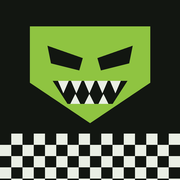
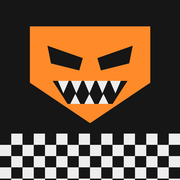
Dark grey and orange palette
Single dark graphite theme with one orange accent (light theme dropped);
ranged/melee told apart by marker shape instead of colour; keyword links
in body colour with an orange underline; icon redrawn in orange.

Claude-Session: https://claude.ai/code/session_0119rjTvtppYUG8zS6as5ssj

Changed region(s): [[0.1667, 0.1389, 0.8611, 0.6944]]

diff --git a/index.html b/index.html
@@ -8,7 +8,7 @@
 <body>
 <title>Waaagh Codex</title>
 <meta name="claude:viewport-fit-sides" content="cover">
-<meta name="theme-color" content="#121611">
+<meta name="theme-color" content="#161616">
 <meta name="apple-mobile-web-app-capable" content="yes">
 <meta name="mobile-web-app-capable" content="yes">
 <meta name="apple-mobile-web-app-status-bar-style" content="black-translucent">
@@ -24,40 +24,23 @@
    Sticky nav bar with a back button over a checkered Goff band; every screen is one
    scrolling column; datasheet sections fold open and closed. */
 :root{
+  /* one deliberate look: dark graphite with a single orange accent */
   color-scheme: dark;
-  --bg:#121611;        /* gunmetal with a green cast */
-  --surface:#1a2019;
-  --surface2:#232b22;
-  --line:#303b2e;
-  --fg:#e9eee4;
-  --muted:#9ba796;
-  --accent:#8fc441;    /* waaagh green */
-  --accent-ink:#0f1a06;
-  --dakka:#f0bf3a;     /* bad moons yellow: CP, ranged */
-  --dakka-ink:#231a00;
-  --choppa:#ea6a50;    /* evil sunz red: melee */
-  --check-a:#e9eee4; --check-b:#121611;
-  --shadow:0 10px 30px rgba(0,0,0,.45);
+  --bg:#161616;
+  --surface:#1f1f1f;
+  --surface2:#2a2a2a;
+  --line:#363636;
+  --fg:#ededed;
+  --muted:#9c9c9c;
+  --accent:#ff8a2a;      /* orange: interactive things, CP, highlights */
+  --accent-ink:#1c0d00;  /* text on orange */
+  --accent-soft:color-mix(in srgb, var(--accent) 14%, transparent);
+  --check-a:#3c3c3c; --check-b:#161616;
+  --shadow:0 10px 30px rgba(0,0,0,.5);
   --f-display:'Black Ops One', 'Barlow Condensed', Impact, sans-serif;
   --f-head:'Barlow Condensed', 'Arial Narrow', system-ui, sans-serif;
   --f-body:'Barlow', system-ui, -apple-system, 'Segoe UI', sans-serif;
   --hdr:64px;
-}
-@media (prefers-color-scheme: light){
-  :root:not([data-theme="dark"]){
-    color-scheme: light;
-    --bg:#edf0e8; --surface:#ffffff; --surface2:#f1f4ed; --line:#d3d9cc;
-    --fg:#151a13; --muted:#5a6555; --accent:#4c7c12; --accent-ink:#ffffff;
-    --dakka:#a77300; --dakka-ink:#ffffff; --choppa:#b8381f;
-    --check-a:#151a13; --check-b:#edf0e8; --shadow:0 10px 30px rgba(20,30,10,.18);
-  }
-}
-:root[data-theme="light"]{
-  color-scheme: light;
-  --bg:#edf0e8; --surface:#ffffff; --surface2:#f1f4ed; --line:#d3d9cc;
-  --fg:#151a13; --muted:#5a6555; --accent:#4c7c12; --accent-ink:#ffffff;
-  --dakka:#a77300; --dakka-ink:#ffffff; --choppa:#b8381f;
-  --check-a:#151a13; --check-b:#edf0e8; --shadow:0 10px 30px rgba(20,30,10,.18);
 }
 
 *{box-sizing:border-box}
@@ -106,7 +89,7 @@ h1,h2,h3{margin:0; text-wrap:balance}
 .pill{display:inline-flex; align-items:center; gap:5px; font:700 12px/1 var(--f-head); letter-spacing:.07em; text-transform:uppercase;
   border-radius:999px; padding:5px 9px; border:1px solid var(--line); color:var(--muted); white-space:nowrap}
 .pill.acc{background:var(--accent); border-color:var(--accent); color:var(--accent-ink)}
-.pill.warn{border-color:var(--dakka); color:var(--dakka)}
+.pill.warn{border-color:var(--accent); color:var(--accent)}
 .pills{display:flex; flex-wrap:wrap; gap:6px}
 .muted{color:var(--muted)}
 .rt p{margin:0 0 6px} .rt p:last-child{margin-bottom:0}
@@ -140,7 +123,7 @@ summary::-webkit-details-marker{display:none}
 .mrow b{font:700 18px/1.1 var(--f-head); letter-spacing:.03em}
 .mrow .c{font:600 14px var(--f-head); color:var(--muted); font-variant-numeric:tabular-nums}
 .mrow .go{width:18px; height:18px; color:var(--muted); transform:rotate(-90deg)}
-.ic.units{color:var(--accent)} .ic.strats{color:var(--dakka)} .ic.ranged{color:var(--dakka)} .ic.melee{color:var(--choppa)} .ic.abil{color:var(--accent)} .ic.rules{color:var(--muted)}
+.ic.units{color:var(--accent)} .ic.strats{color:var(--accent)} .ic.ranged{color:var(--accent)} .ic.melee{color:var(--accent)} .ic.abil{color:var(--accent)} .ic.rules{color:var(--muted)}
 
 /* ---------- slices: weapons / abilities by unit ---------- */
 /* each unit opens with a one-line band (its name) over the column labels; both stay pinned while you scroll its rows */
@@ -152,7 +135,7 @@ summary::-webkit-details-marker{display:none}
 .wt.lab > span.h{top:calc(env(safe-area-inset-top, 0px) + var(--hdr) + 34px); padding:6px 0 4px}
 .uhn{display:flex; flex:1; align-items:baseline; gap:8px; min-width:0; max-width:100%; font:700 16.5px/1.1 var(--f-head); letter-spacing:.02em; color:var(--fg); cursor:pointer}
 .uhn .nm{flex:none}
-.uhn small{min-width:0; font:600 12px/1.2 var(--f-body); color:var(--dakka); white-space:nowrap; overflow:hidden; text-overflow:ellipsis}
+.uhn small{min-width:0; font:600 12px/1.2 var(--f-body); color:var(--accent); white-space:nowrap; overflow:hidden; text-overflow:ellipsis}
 .uhn small.m{color:var(--muted)}
 .uhn::after{content:"\203A"; margin-left:auto; padding-left:6px; color:var(--accent); font-size:20px; line-height:1}
 .slice .al{margin-top:6px}
@@ -165,7 +148,7 @@ summary::-webkit-details-marker{display:none}
 .urow .nm{font:700 18px/1.15 var(--f-head); letter-spacing:.02em}
 .urow .pts{font:700 16px/1 var(--f-head); text-align:right; color:var(--muted)}
 .urow .meta{grid-column:1 / -1; font-size:13px; color:var(--muted); line-height:1.35}
-.urow .meta .tg{color:var(--dakka); font-weight:600}
+.urow .meta .tg{color:var(--accent); font-weight:600}
 .urow .meta .tg.acc{color:var(--accent)}
 .sline{grid-column:1 / -1; display:flex; flex-wrap:wrap; gap:0 12px; margin-top:3px; font:700 15px/1.3 var(--f-head)}
 .sline i{font-style:normal; font-weight:600; font-size:11px; letter-spacing:.1em; color:var(--muted); margin-right:3px}
@@ -179,7 +162,7 @@ summary::-webkit-details-marker{display:none}
 .fold > summary h2{flex:1; font:700 17px/1 var(--f-head); letter-spacing:.07em; text-transform:uppercase}
 .fold > summary .ct{font:600 12.5px var(--f-head); color:var(--muted); letter-spacing:.06em}
 .fold > summary .dot{width:9px; height:9px; border-radius:2px; transform:rotate(45deg); flex:none}
-.dot.stats{background:var(--fg)} .dot.ranged{background:var(--dakka)} .dot.melee{background:var(--choppa)} .dot.abil{background:var(--accent)} .dot.rules{border:2px solid var(--accent)} .dot.kw{border:2px solid var(--muted)}
+.dot.stats{background:var(--fg)} .dot.ranged{background:var(--accent)} .dot.melee{border:2px solid var(--accent)} .dot.abil{background:var(--accent)} .dot.rules{border:2px solid var(--accent)} .dot.kw{border:2px solid var(--muted)}
 .fold > .body{padding-bottom:12px}
 /* stat table: one row per model profile */
 .st{display:grid; align-items:stretch; background:var(--surface); border:1px solid var(--line); border-radius:10px; overflow:hidden}
@@ -202,22 +185,20 @@ summary::-webkit-details-marker{display:none}
 .wt > span.sub{border-top:0}
 .wt > span.n.sub{padding-left:2px}
 .wt > span.n .x{color:var(--muted); font-weight:600; font-size:13px; margin-left:4px; white-space:nowrap}
-.wt > span.n .enh{color:var(--dakka); font-size:11px; letter-spacing:.08em; margin-left:4px}
+.wt > span.n .enh{color:var(--accent); font-size:11px; letter-spacing:.08em; margin-left:4px}
 .wt > span.who{grid-column:1 / -1; text-align:left; font:700 11.5px/1 var(--f-head); letter-spacing:.12em; text-transform:uppercase; color:var(--muted); padding:9px 0 5px}
 .wt > span.mod{grid-column:1 / -1; text-align:left; border-top:0; margin:3px 0 2px; padding:5px 8px; border-radius:7px; font:500 13px/1.35 var(--f-body);
   background:color-mix(in srgb, var(--accent) 13%, transparent); color:var(--fg)}
 .wt > span.mod b{font-weight:700}
 .wt > span.mod .from, .wt > span.n.var small{color:var(--muted); font:500 11.5px var(--f-body); white-space:nowrap}
 .wt > span.mod .from::before{content:"\00b7  "}
-.wt > span.var{border-top:1px dashed var(--line); padding:5px 0 3px; background:color-mix(in srgb, var(--dakka) 7%, transparent)}
-.wt > span.n.var{font:600 13px/1.25 var(--f-body); color:var(--dakka); padding-left:8px}
+.wt > span.var{border-top:1px dashed var(--line); padding:5px 0 3px; background:color-mix(in srgb, var(--accent) 7%, transparent)}
+.wt > span.n.var{font:600 13px/1.25 var(--f-body); color:var(--accent); padding-left:8px}
 .wt > span.varc{grid-column:1 / -1; text-align:left; border-top:0; padding:0 8px 6px; font:500 12.5px/1.3 var(--f-body); color:var(--muted);
-  background:color-mix(in srgb, var(--dakka) 7%, transparent)}
-.wt > span.var i.hi{font-style:normal; display:inline-block; min-width:26px; padding:2px 4px; border-radius:5px; background:var(--dakka); color:var(--dakka-ink)}
+  background:color-mix(in srgb, var(--accent) 7%, transparent)}
+.wt > span.var i.hi{font-style:normal; display:inline-block; min-width:26px; padding:2px 4px; border-radius:5px; background:var(--accent); color:var(--accent-ink)}
 .wt > span.kwl{grid-column:1 / -1; text-align:left; border-top:0; padding:0 0 6px; margin-top:-2px; line-height:1.3}
-.kwl [data-rule]{cursor:pointer; white-space:nowrap; font:700 11px/1.35 var(--f-head); letter-spacing:.05em; text-transform:uppercase; color:var(--muted); padding:0; text-decoration:underline dotted; text-decoration-color:var(--muted); text-underline-offset:2px}
-.wt.ranged .kwl [data-rule]{color:color-mix(in srgb, var(--dakka) 80%, var(--fg))}
-.wt.melee .kwl [data-rule]{color:color-mix(in srgb, var(--choppa) 85%, var(--fg))}
+.kwl [data-rule]{cursor:pointer; white-space:nowrap; font:700 11px/1.35 var(--f-head); letter-spacing:.05em; text-transform:uppercase; color:var(--fg); padding:0; text-decoration:underline dotted; text-decoration-color:var(--accent); text-underline-offset:2px}
 .kwl .sep{color:var(--muted); font-size:11px}
 /* abilities: a divided list, no boxes */
 .al > div{padding:8px 0; border-top:1px solid var(--line)}
@@ -225,7 +206,7 @@ summary::-webkit-details-marker{display:none}
 .al .ah{display:flex; flex-wrap:wrap; align-items:baseline; gap:2px 8px; margin-bottom:2px}
 .al .ah b{font:700 16px/1.2 var(--f-head); letter-spacing:.02em}
 .al .ah .who, .al .ah .tg{font-size:12.5px; color:var(--muted)}
-.al .ah .tg.enh{color:var(--dakka)}
+.al .ah .tg.enh{color:var(--accent)}
 .al .rt{font-size:14.5px; line-height:1.4}
 .chips{display:flex; flex-wrap:wrap; gap:5px}
 .kw{display:inline-flex; align-items:center; gap:5px; font:700 12.5px/1 var(--f-head); letter-spacing:.06em; text-transform:uppercase; padding:8px 9px; border-radius:8px;
@@ -249,7 +230,7 @@ summary::-webkit-details-marker{display:none}
 .phasebar button[aria-pressed="true"]{border-color:var(--fg); color:var(--fg); background:var(--surface2)}
 .strat{background:var(--surface); border:1px solid var(--line); border-radius:12px}
 .strat > summary{display:grid; grid-template-columns:auto minmax(0,1fr) auto; gap:10px; align-items:center; padding:8px 10px}
-.cpbox{width:38px; height:38px; border-radius:9px; background:var(--dakka); color:var(--dakka-ink); display:grid; place-content:center; text-align:center;
+.cpbox{width:38px; height:38px; border-radius:9px; background:var(--accent); color:var(--accent-ink); display:grid; place-content:center; text-align:center;
   font:700 19px/1 var(--f-head)}
 .cpbox small{display:block; font-size:8.5px; letter-spacing:.1em; margin-top:1px}
 .strat .sn{font:700 16.5px/1.1 var(--f-head); letter-spacing:.02em; text-transform:uppercase}
@@ -269,7 +250,7 @@ summary::-webkit-details-marker{display:none}
 .search svg{width:18px; height:18px; color:var(--muted); flex:none}
 .search input{flex:1; min-width:0; border:0; background:none; padding:12px 0; outline:none}
 .ttable{display:grid; grid-template-columns:auto 1fr; gap:4px 12px; margin-top:8px; font-size:15px}
-.ttable span:nth-child(odd){font:700 16px var(--f-head); color:var(--dakka)}
+.ttable span:nth-child(odd){font:700 16px var(--f-head); color:var(--accent)}
 
 /* ---------- buttons ---------- */
 .btn{display:inline-flex; align-items:center; justify-content:center; gap:6px; min-height:44px; padding:0 14px; border-radius:11px;
@@ -335,7 +316,7 @@ summary::-webkit-details-marker{display:none}
 </div>
 <div class="toast" id="toast" role="status" aria-live="polite"></div>
 
-<script src="data.js?v=2026-10-16.6"></script>
+<script src="data.js?v=2026-10-16.7"></script>
 <script>
 'use strict';
 const D = window.WH_DATA;

diff --git a/app.html b/app.html
@@ -1,6 +1,6 @@
 <title>Waaagh Codex</title>
 <meta name="claude:viewport-fit-sides" content="cover">
-<meta name="theme-color" content="#121611">
+<meta name="theme-color" content="#161616">
 <meta name="apple-mobile-web-app-capable" content="yes">
 <meta name="mobile-web-app-capable" content="yes">
 <meta name="apple-mobile-web-app-status-bar-style" content="black-translucent">
@@ -16,40 +16,23 @@
    Sticky nav bar with a back button over a checkered Goff band; every screen is one
    scrolling column; datasheet sections fold open and closed. */
 :root{
+  /* one deliberate look: dark graphite with a single orange accent */
   color-scheme: dark;
-  --bg:#121611;        /* gunmetal with a green cast */
-  --surface:#1a2019;
-  --surface2:#232b22;
-  --line:#303b2e;
-  --fg:#e9eee4;
-  --muted:#9ba796;
-  --accent:#8fc441;    /* waaagh green */
-  --accent-ink:#0f1a06;
-  --dakka:#f0bf3a;     /* bad moons yellow: CP, ranged */
-  --dakka-ink:#231a00;
-  --choppa:#ea6a50;    /* evil sunz red: melee */
-  --check-a:#e9eee4; --check-b:#121611;
-  --shadow:0 10px 30px rgba(0,0,0,.45);
+  --bg:#161616;
+  --surface:#1f1f1f;
+  --surface2:#2a2a2a;
+  --line:#363636;
+  --fg:#ededed;
+  --muted:#9c9c9c;
+  --accent:#ff8a2a;      /* orange: interactive things, CP, highlights */
+  --accent-ink:#1c0d00;  /* text on orange */
+  --accent-soft:color-mix(in srgb, var(--accent) 14%, transparent);
+  --check-a:#3c3c3c; --check-b:#161616;
+  --shadow:0 10px 30px rgba(0,0,0,.5);
   --f-display:'Black Ops One', 'Barlow Condensed', Impact, sans-serif;
   --f-head:'Barlow Condensed', 'Arial Narrow', system-ui, sans-serif;
   --f-body:'Barlow', system-ui, -apple-system, 'Segoe UI', sans-serif;
   --hdr:64px;
-}
-@media (prefers-color-scheme: light){
-  :root:not([data-theme="dark"]){
-    color-scheme: light;
-    --bg:#edf0e8; --surface:#ffffff; --surface2:#f1f4ed; --line:#d3d9cc;
-    --fg:#151a13; --muted:#5a6555; --accent:#4c7c12; --accent-ink:#ffffff;
-    --dakka:#a77300; --dakka-ink:#ffffff; --choppa:#b8381f;
-    --check-a:#151a13; --check-b:#edf0e8; --shadow:0 10px 30px rgba(20,30,10,.18);
-  }
-}
-:root[data-theme="light"]{
-  color-scheme: light;
-  --bg:#edf0e8; --surface:#ffffff; --surface2:#f1f4ed; --line:#d3d9cc;
-  --fg:#151a13; --muted:#5a6555; --accent:#4c7c12; --accent-ink:#ffffff;
-  --dakka:#a77300; --dakka-ink:#ffffff; --choppa:#b8381f;
-  --check-a:#151a13; --check-b:#edf0e8; --shadow:0 10px 30px rgba(20,30,10,.18);
 }
 
 *{box-sizing:border-box}
@@ -98,7 +81,7 @@ h1,h2,h3{margin:0; text-wrap:balance}
 .pill{display:inline-flex; align-items:center; gap:5px; font:700 12px/1 var(--f-head); letter-spacing:.07em; text-transform:uppercase;
   border-radius:999px; padding:5px 9px; border:1px solid var(--line); color:var(--muted); white-space:nowrap}
 .pill.acc{background:var(--accent); border-color:var(--accent); color:var(--accent-ink)}
-.pill.warn{border-color:var(--dakka); color:var(--dakka)}
+.pill.warn{border-color:var(--accent); color:var(--accent)}
 .pills{display:flex; flex-wrap:wrap; gap:6px}
 .muted{color:var(--muted)}
 .rt p{margin:0 0 6px} .rt p:last-child{margin-bottom:0}
@@ -132,7 +115,7 @@ summary::-webkit-details-marker{display:none}
 .mrow b{font:700 18px/1.1 var(--f-head); letter-spacing:.03em}
 .mrow .c{font:600 14px var(--f-head); color:var(--muted); font-variant-numeric:tabular-nums}
 .mrow .go{width:18px; height:18px; color:var(--muted); transform:rotate(-90deg)}
-.ic.units{color:var(--accent)} .ic.strats{color:var(--dakka)} .ic.ranged{color:var(--dakka)} .ic.melee{color:var(--choppa)} .ic.abil{color:var(--accent)} .ic.rules{color:var(--muted)}
+.ic.units{color:var(--accent)} .ic.strats{color:var(--accent)} .ic.ranged{color:var(--accent)} .ic.melee{color:var(--accent)} .ic.abil{color:var(--accent)} .ic.rules{color:var(--muted)}
 
 /* ---------- slices: weapons / abilities by unit ---------- */
 /* each unit opens with a one-line band (its name) over the column labels; both stay pinned while you scroll its rows */
@@ -144,7 +127,7 @@ summary::-webkit-details-marker{display:none}
 .wt.lab > span.h{top:calc(env(safe-area-inset-top, 0px) + var(--hdr) + 34px); padding:6px 0 4px}
 .uhn{display:flex; flex:1; align-items:baseline; gap:8px; min-width:0; max-width:100%; font:700 16.5px/1.1 var(--f-head); letter-spacing:.02em; color:var(--fg); cursor:pointer}
 .uhn .nm{flex:none}
-.uhn small{min-width:0; font:600 12px/1.2 var(--f-body); color:var(--dakka); white-space:nowrap; overflow:hidden; text-overflow:ellipsis}
+.uhn small{min-width:0; font:600 12px/1.2 var(--f-body); color:var(--accent); white-space:nowrap; overflow:hidden; text-overflow:ellipsis}
 .uhn small.m{color:var(--muted)}
 .uhn::after{content:"\203A"; margin-left:auto; padding-left:6px; color:var(--accent); font-size:20px; line-height:1}
 .slice .al{margin-top:6px}
@@ -157,7 +140,7 @@ summary::-webkit-details-marker{display:none}
 .urow .nm{font:700 18px/1.15 var(--f-head); letter-spacing:.02em}
 .urow .pts{font:700 16px/1 var(--f-head); text-align:right; color:var(--muted)}
 .urow .meta{grid-column:1 / -1; font-size:13px; color:var(--muted); line-height:1.35}
-.urow .meta .tg{color:var(--dakka); font-weight:600}
+.urow .meta .tg{color:var(--accent); font-weight:600}
 .urow .meta .tg.acc{color:var(--accent)}
 .sline{grid-column:1 / -1; display:flex; flex-wrap:wrap; gap:0 12px; margin-top:3px; font:700 15px/1.3 var(--f-head)}
 .sline i{font-style:normal; font-weight:600; font-size:11px; letter-spacing:.1em; color:var(--muted); margin-right:3px}
@@ -171,7 +154,7 @@ summary::-webkit-details-marker{display:none}
 .fold > summary h2{flex:1; font:700 17px/1 var(--f-head); letter-spacing:.07em; text-transform:uppercase}
 .fold > summary .ct{font:600 12.5px var(--f-head); color:var(--muted); letter-spacing:.06em}
 .fold > summary .dot{width:9px; height:9px; border-radius:2px; transform:rotate(45deg); flex:none}
-.dot.stats{background:var(--fg)} .dot.ranged{background:var(--dakka)} .dot.melee{background:var(--choppa)} .dot.abil{background:var(--accent)} .dot.rules{border:2px solid var(--accent)} .dot.kw{border:2px solid var(--muted)}
+.dot.stats{background:var(--fg)} .dot.ranged{background:var(--accent)} .dot.melee{border:2px solid var(--accent)} .dot.abil{background:var(--accent)} .dot.rules{border:2px solid var(--accent)} .dot.kw{border:2px solid var(--muted)}
 .fold > .body{padding-bottom:12px}
 /* stat table: one row per model profile */
 .st{display:grid; align-items:stretch; background:var(--surface); border:1px solid var(--line); border-radius:10px; overflow:hidden}
@@ -194,22 +177,20 @@ summary::-webkit-details-marker{display:none}
 .wt > span.sub{border-top:0}
 .wt > span.n.sub{padding-left:2px}
 .wt > span.n .x{color:var(--muted); font-weight:600; font-size:13px; margin-left:4px; white-space:nowrap}
-.wt > span.n .enh{color:var(--dakka); font-size:11px; letter-spacing:.08em; margin-left:4px}
+.wt > span.n .enh{color:var(--accent); font-size:11px; letter-spacing:.08em; margin-left:4px}
 .wt > span.who{grid-column:1 / -1; text-align:left; font:700 11.5px/1 var(--f-head); letter-spacing:.12em; text-transform:uppercase; color:var(--muted); padding:9px 0 5px}
 .wt > span.mod{grid-column:1 / -1; text-align:left; border-top:0; margin:3px 0 2px; padding:5px 8px; border-radius:7px; font:500 13px/1.35 var(--f-body);
   background:color-mix(in srgb, var(--accent) 13%, transparent); color:var(--fg)}
 .wt > span.mod b{font-weight:700}
 .wt > span.mod .from, .wt > span.n.var small{color:var(--muted); font:500 11.5px var(--f-body); white-space:nowrap}
 .wt > span.mod .from::before{content:"\00b7  "}
-.wt > span.var{border-top:1px dashed var(--line); padding:5px 0 3px; background:color-mix(in srgb, var(--dakka) 7%, transparent)}
-.wt > span.n.var{font:600 13px/1.25 var(--f-body); color:var(--dakka); padding-left:8px}
+.wt > span.var{border-top:1px dashed var(--line); padding:5px 0 3px; background:color-mix(in srgb, var(--accent) 7%, transparent)}
+.wt > span.n.var{font:600 13px/1.25 var(--f-body); color:var(--accent); padding-left:8px}
 .wt > span.varc{grid-column:1 / -1; text-align:left; border-top:0; padding:0 8px 6px; font:500 12.5px/1.3 var(--f-body); color:var(--muted);
-  background:color-mix(in srgb, var(--dakka) 7%, transparent)}
-.wt > span.var i.hi{font-style:normal; display:inline-block; min-width:26px; padding:2px 4px; border-radius:5px; background:var(--dakka); color:var(--dakka-ink)}
+  background:color-mix(in srgb, var(--accent) 7%, transparent)}
+.wt > span.var i.hi{font-style:normal; display:inline-block; min-width:26px; padding:2px 4px; border-radius:5px; background:var(--accent); color:var(--accent-ink)}
 .wt > span.kwl{grid-column:1 / -1; text-align:left; border-top:0; padding:0 0 6px; margin-top:-2px; line-height:1.3}
-.kwl [data-rule]{cursor:pointer; white-space:nowrap; font:700 11px/1.35 var(--f-head); letter-spacing:.05em; text-transform:uppercase; color:var(--muted); padding:0; text-decoration:underline dotted; text-decoration-color:var(--muted); text-underline-offset:2px}
-.wt.ranged .kwl [data-rule]{color:color-mix(in srgb, var(--dakka) 80%, var(--fg))}
-.wt.melee .kwl [data-rule]{color:color-mix(in srgb, var(--choppa) 85%, var(--fg))}
+.kwl [data-rule]{cursor:pointer; white-space:nowrap; font:700 11px/1.35 var(--f-head); letter-spacing:.05em; text-transform:uppercase; color:var(--fg); padding:0; text-decoration:underline dotted; text-decoration-color:var(--accent); text-underline-offset:2px}
 .kwl .sep{color:var(--muted); font-size:11px}
 /* abilities: a divided list, no boxes */
 .al > div{padding:8px 0; border-top:1px solid var(--line)}
@@ -217,7 +198,7 @@ summary::-webkit-details-marker{display:none}
 .al .ah{display:flex; flex-wrap:wrap; align-items:baseline; gap:2px 8px; margin-bottom:2px}
 .al .ah b{font:700 16px/1.2 var(--f-head); letter-spacing:.02em}
 .al .ah .who, .al .ah .tg{font-size:12.5px; color:var(--muted)}
-.al .ah .tg.enh{color:var(--dakka)}
+.al .ah .tg.enh{color:var(--accent)}
 .al .rt{font-size:14.5px; line-height:1.4}
 .chips{display:flex; flex-wrap:wrap; gap:5px}
 .kw{display:inline-flex; align-items:center; gap:5px; font:700 12.5px/1 var(--f-head); letter-spacing:.06em; text-transform:uppercase; padding:8px 9px; border-radius:8px;
@@ -241,7 +222,7 @@ summary::-webkit-details-marker{display:none}
 .phasebar button[aria-pressed="true"]{border-color:var(--fg); color:var(--fg); background:var(--surface2)}
 .strat{background:var(--surface); border:1px solid var(--line); border-radius:12px}
 .strat > summary{display:grid; grid-template-columns:auto minmax(0,1fr) auto; gap:10px; align-items:center; padding:8px 10px}
-.cpbox{width:38px; height:38px; border-radius:9px; background:var(--dakka); color:var(--dakka-ink); display:grid; place-content:center; text-align:center;
+.cpbox{width:38px; height:38px; border-radius:9px; background:var(--accent); color:var(--accent-ink); display:grid; place-content:center; text-align:center;
   font:700 19px/1 var(--f-head)}
 .cpbox small{display:block; font-size:8.5px; letter-spacing:.1em; margin-top:1px}
 .strat .sn{font:700 16.5px/1.1 var(--f-head); letter-spacing:.02em; text-transform:uppercase}
@@ -261,7 +242,7 @@ summary::-webkit-details-marker{display:none}
 .search svg{width:18px; height:18px; color:var(--muted); flex:none}
 .search input{flex:1; min-width:0; border:0; background:none; padding:12px 0; outline:none}
 .ttable{display:grid; grid-template-columns:auto 1fr; gap:4px 12px; margin-top:8px; font-size:15px}
-.ttable span:nth-child(odd){font:700 16px var(--f-head); color:var(--dakka)}
+.ttable span:nth-child(odd){font:700 16px var(--f-head); color:var(--accent)}
 
 /* ---------- buttons ---------- */
 .btn{display:inline-flex; align-items:center; justify-content:center; gap:6px; min-height:44px; padding:0 14px; border-radius:11px;

diff --git a/sw.js b/sw.js
@@ -1,7 +1,7 @@
 // Service worker for the installed (home screen) copy.
 // Network first for everything of our own, so an update shows up the next time
 // the app opens; the cache is only the offline fallback for a basement game table.
-const VERSION = '2026-10-16.6';
+const VERSION = '2026-10-16.7';
 const CACHE = 'waaagh-codex';
 const CORE = ['./', 'index.html', 'data.js', 'manifest.webmanifest', 'icon-192.png', 'icon-180.png', 'icon-512.png'];
 

diff --git a/data.js b/data.js
@@ -12,7 +12,7 @@
 ===================================================================== */
 window.WH_DATA = (function(){
 
-const VERSION = '2026-10-16.6';
+const VERSION = '2026-10-16.7';
 
 /* ---------------- core rules (11th edition) ---------------- */
 // Weapon keyword and core ability text, from the BSData wh40k-11e game system.
